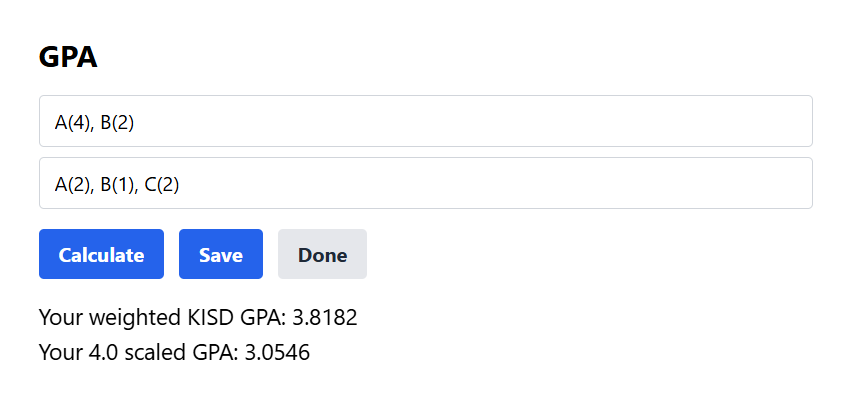
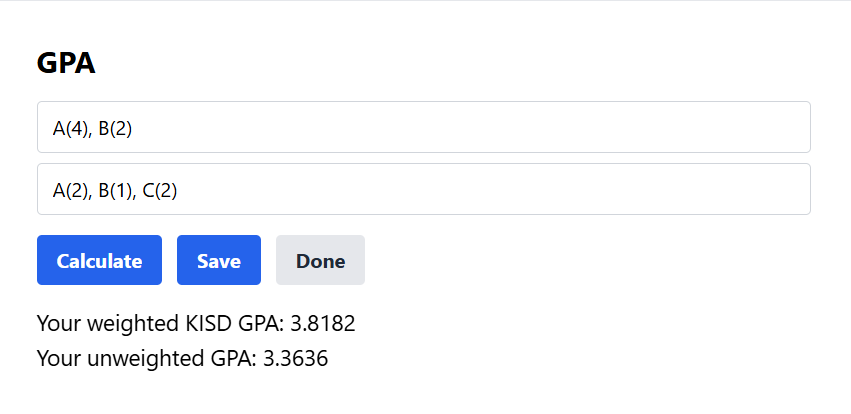
changed 4.0 scaled to unweighted gpa

diff --git a/src/GPACalculator.js b/src/GPACalculator.js
@@ -4,6 +4,7 @@ function GPACalculator() {
   const [academicGrades, setAcademicGrades] = useState('');
   const [kapApGrades, setKapApGrades] = useState('');
   const [weightedGpa, setWeightedGpa] = useState(null);
+  const [UnweightedGpa, setUnweightedGpa] = useState(null);
   const [calculationMade, setCalculationMade] = useState(false);
 
   useEffect(() => {
@@ -67,19 +68,24 @@ function GPACalculator() {
     const kapApLetters = { A: 5, B: 4, C: 3, D: 2, F: 0 };
 
     const acaPointsCount = calculatePoints(academicGrades, acaLetters);
+    const unweightedKapApPointsCount = calculatePoints(kapApGrades, acaLetters)
     const kapPointsCount = calculatePoints(kapApGrades === 'none' ? '' : kapApGrades, kapApLetters);
 
     if (acaPointsCount.hasError || kapPointsCount.hasError) {
       setWeightedGpa(null);
+      setUnweightedGpa(null); 
       return;
     }
 
     const totalPoints = acaPointsCount.points + kapPointsCount.points;
     const totalCourses = acaPointsCount.count + kapPointsCount.count;
+    const unweightedPoints = unweightedKapApPointsCount.points + acaPointsCount.points;
 
     const calculatedWeightedGpa = totalCourses > 0 ? totalPoints / totalCourses : 0;
+    const calculatedUnweightedGpa = totalCourses > 0 ? unweightedPoints / totalCourses : 0
 
     setWeightedGpa(calculatedWeightedGpa.toFixed(4));
+    setUnweightedGpa(calculatedUnweightedGpa.toFixed(4));
     setCalculationMade(true);
   };
 
@@ -150,7 +156,7 @@ function GPACalculator() {
       {weightedGpa !== null && (
         <div className="mt-4 relative">
           <p className="text-lg">Your weighted KISD GPA: {weightedGpa}</p>
-          <p className="text-lg">Your 4.0 scaled GPA: {(weightedGpa * 0.8).toFixed(4)}</p>
+          <p className="text-lg">Your unweighted GPA: {UnweightedGpa}</p>
         </div>
       )}
     </div>
